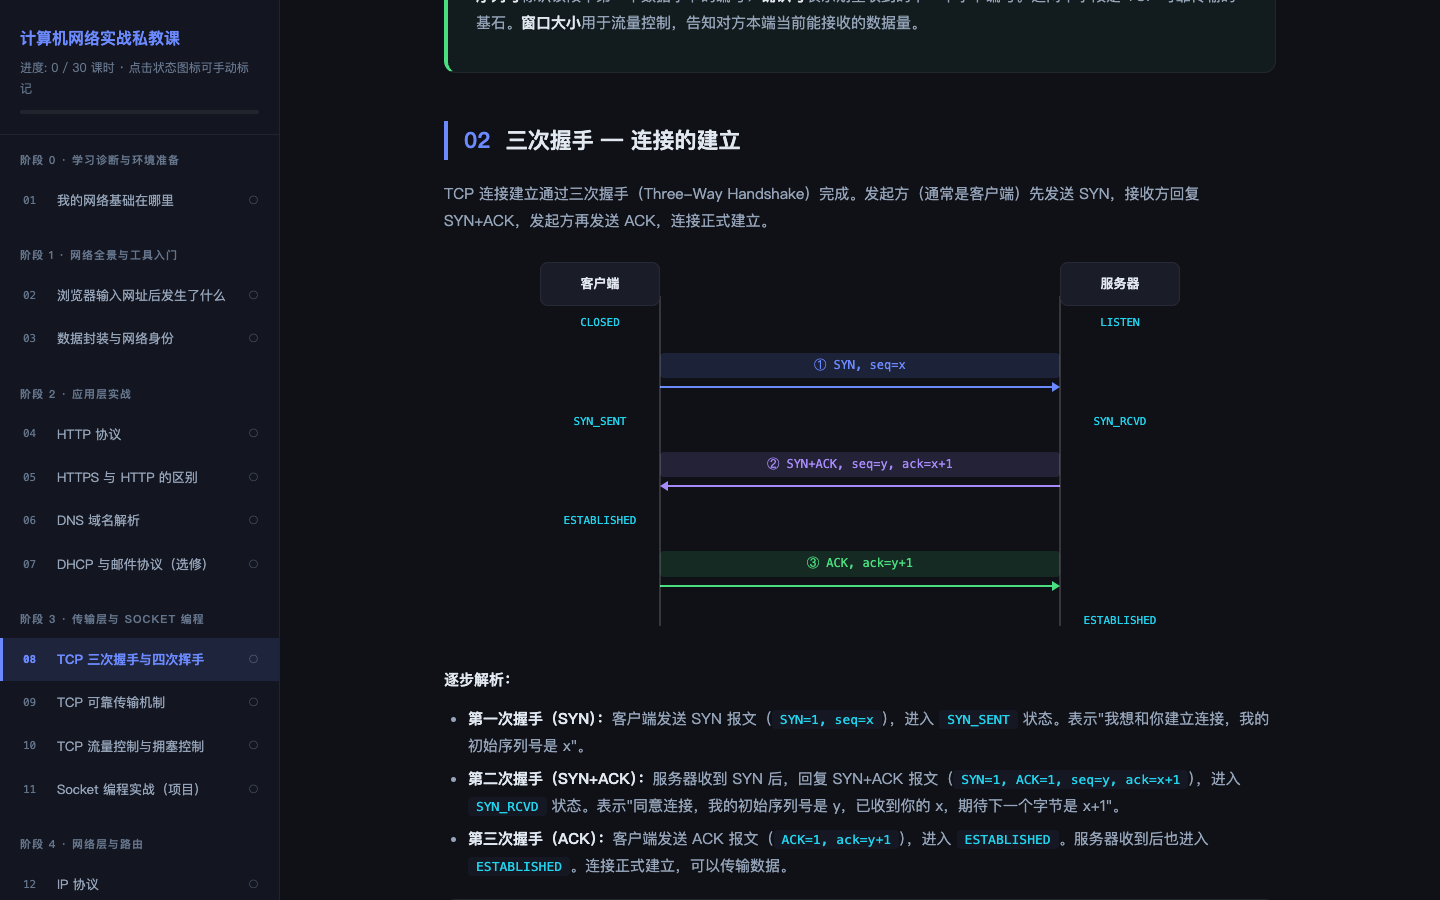
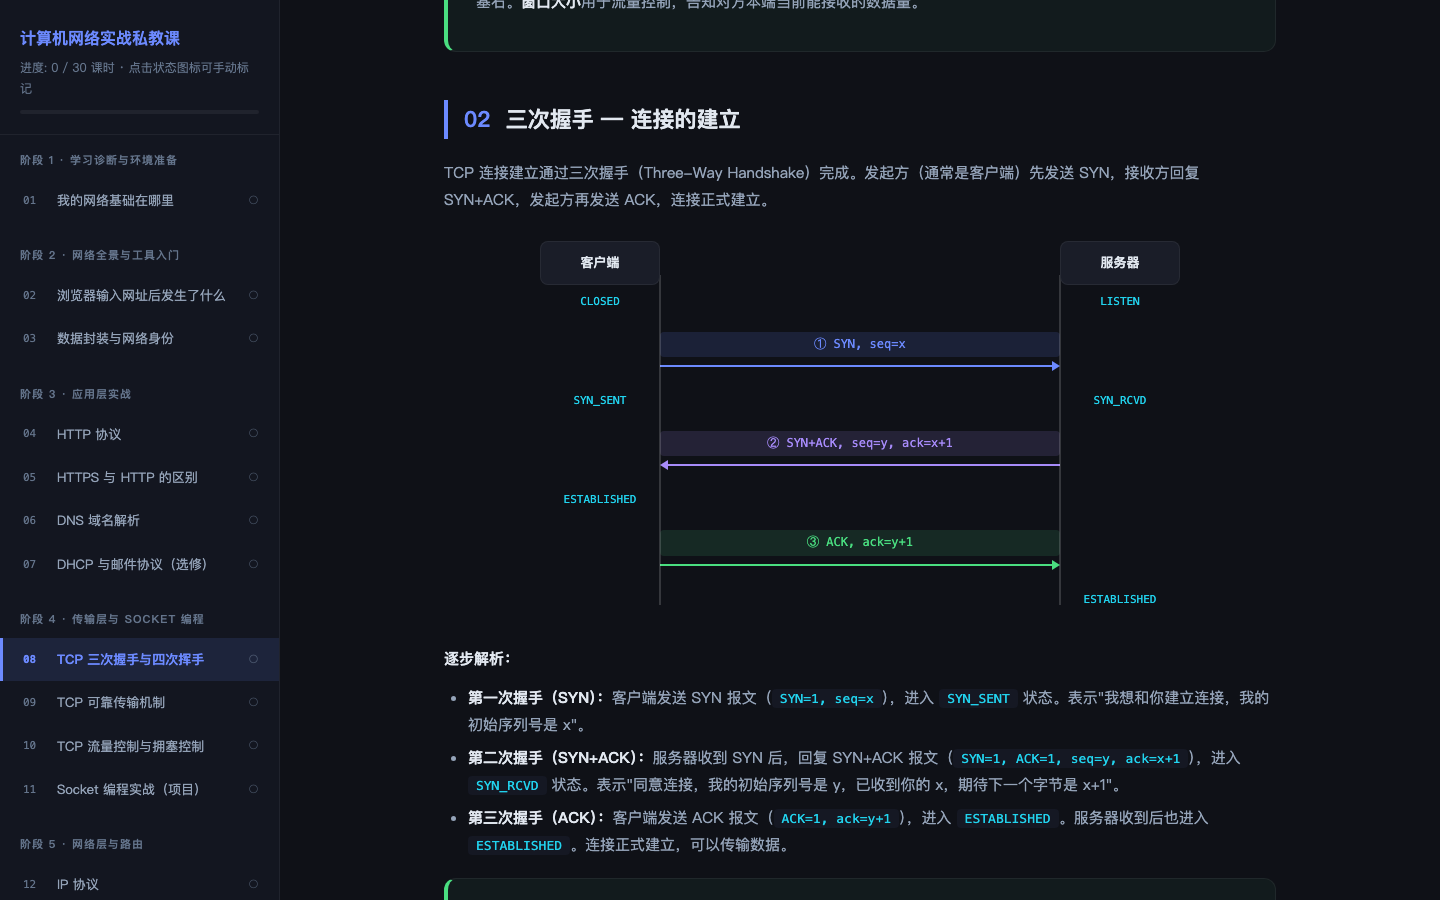
v1.5：重制课程截图以匹配 1–9 阶段编号
六张课程截图全部过期，且过期原因不止一处：

1. 编号：原截图摄于 v1.2 时点（2026-08-28，比 v1.4 还早两版），
   侧边栏渲染的是 0 基阶段编号"阶段 0 · 学习诊断与环境准备"，
   本版编号改为 1–9 后六张全部失效——不只是含 TCP 头部图的那张。
2. 取景：原截图为章节标题贴视口顶部的取景；本次统一为
   标题距顶 100px，课时 01 取页首。

重制方式（可复现）：
  curl 取回 GitHub Pages 线上产物（748,397 B）→ 本地 HTTP 服务
  → 无头 Microsoft Edge 153 经 CDP 渲染 → 执行 showLesson(N)
  切课时 → 滚动到目标章节 → Page.captureScreenshot
  视口 1440×900、devicePixelRatio=1、隐藏滚动条。

目标章节映射：01→课时 01 页首；02→课时 08「01 TCP 段结构」；
03→课时 08「02 三次握手」；04→课时 03「03 封装过程可视化」；
05→课时 11「04 任务一：TCP / UDP Echo 服务器」；
06→课时 27「01 安全域划分与 DMZ」。

验证：六张均为 PNG 1440×900 8-bit RGB，与原图规格一致；
逐张目视核对侧边栏阶段编号已为 1–9、课时高亮正确；
tools/verify.sh --residue v1.5 通过。

教训：截图是"随源码状态漂移"的派生物，此前没有任何清单把它与
源码绑定——改了侧边栏编号，六张截图一张都没跟着动。凡改动
侧边栏结构 / 阶段编号 / 图示口径，必须把 docs/images/ 的重制
列入同一版本的变更明细。

diff --git a/CHANGELOG.md b/CHANGELOG.md
@@ -245,6 +245,7 @@
 | 4 | README.md | 重写：首屏句定调"蒸馏了 Kurose & Ross《自顶向下方法》与 16 份 RFC"；章节顺序为课程界面 → 课程地图 → 课程特点 → 知识溯源；地图 9 行表按新编号 1–9；"课程特点"五条（知识有出处 / 编排成线 / 讲人话 / 电子书的体验 / 单文件即全书，类比例子取自课程正文真实类比块）；"知识溯源"一段定调 + 链接；顶栏去掉课程计划入口（教案属生产文档，不作为学习者主入口）；删除元话语段落、版本表、质量流程、身份向导览；"开发与维护"压缩为 3 行摘要 |
 | 5 | docs/development.md（新增） | 承接 README 外移内容：制作方式、版本表（含 v1.5 行）、版本验证方法、质量流程与纪律、浏览指引（面向所有读者，无特定身份称谓） |
 | 6 | 全项目 | 清除对读者身份的特定称谓（文档层全文零命中） |
+| 7 | docs/images/（6 张） | 截图重制：原六张摄于 v1.2 时点（2026-08-28），侧边栏渲染的是 0 基阶段编号（"阶段 0 · 学习诊断与环境准备"），本版编号改为 1–9 后**全部过期**——不只是含 TCP 头部图的那张。以线上产物在无头浏览器重制（方法见验证节） |
 
 **历史条目编号口径说明**：本文档及 docs/reviews/ 中 v1.4 及之前的条目所述"阶段 N"为当时编号（0 基），保留原样不作改写——历史记录描述的是当时的事实状态。
 
@@ -271,7 +272,9 @@
 - "知识溯源清单"命名三处联动一致：README 顶栏 / 课程特点与知识溯源节内链接 / sources.md H1（原"知识来源与蒸馏溯源清单"）；
 - README 内相对链接（docs/sources.md、docs/development.md、CHANGELOG.md、LICENSE.txt）全部有效；development.md 内链接从 docs/ 解析正确；
 - 编辑痕迹词（"此前/原来/删掉/曾在这里"）在新 README 与 development.md 中零命中，两文档各自独立成文；
-- 结构验证不变：`<div>` 3259/3259、`<pre>` 71/71、31 页、30 个状态标记全 pending（课程本体仅改文本标签，不改结构）。
+- 结构验证不变：`<div>` 3259/3259、`<pre>` 71/71、31 页、30 个状态标记全 pending（课程本体仅改文本标签，不改结构）；
+- 截图重制方式与产物：以 curl 取回 GitHub Pages 线上产物（748,397 B）作渲染源，经本地 HTTP 服务由无头 Microsoft Edge 153 渲染；视口 1440×900、devicePixelRatio=1、隐藏滚动条，目标章节标题定位至视口顶 100px（课时 01 为页首）。六张均为 PNG 1440×900 8-bit RGB，与原图规格一致；逐张目视核对侧边栏阶段编号已是 1–9。
+- **教训**：截图是"随源码状态漂移"的派生物，但此前没有任何清单把它与源码绑定——本版改了侧边栏编号，六张截图却一张都没跟着动。凡改动侧边栏结构 / 阶段编号 / 图示口径，必须把 `docs/images/` 的重制列入**同一版本**的变更明细。
 
 ---
 
